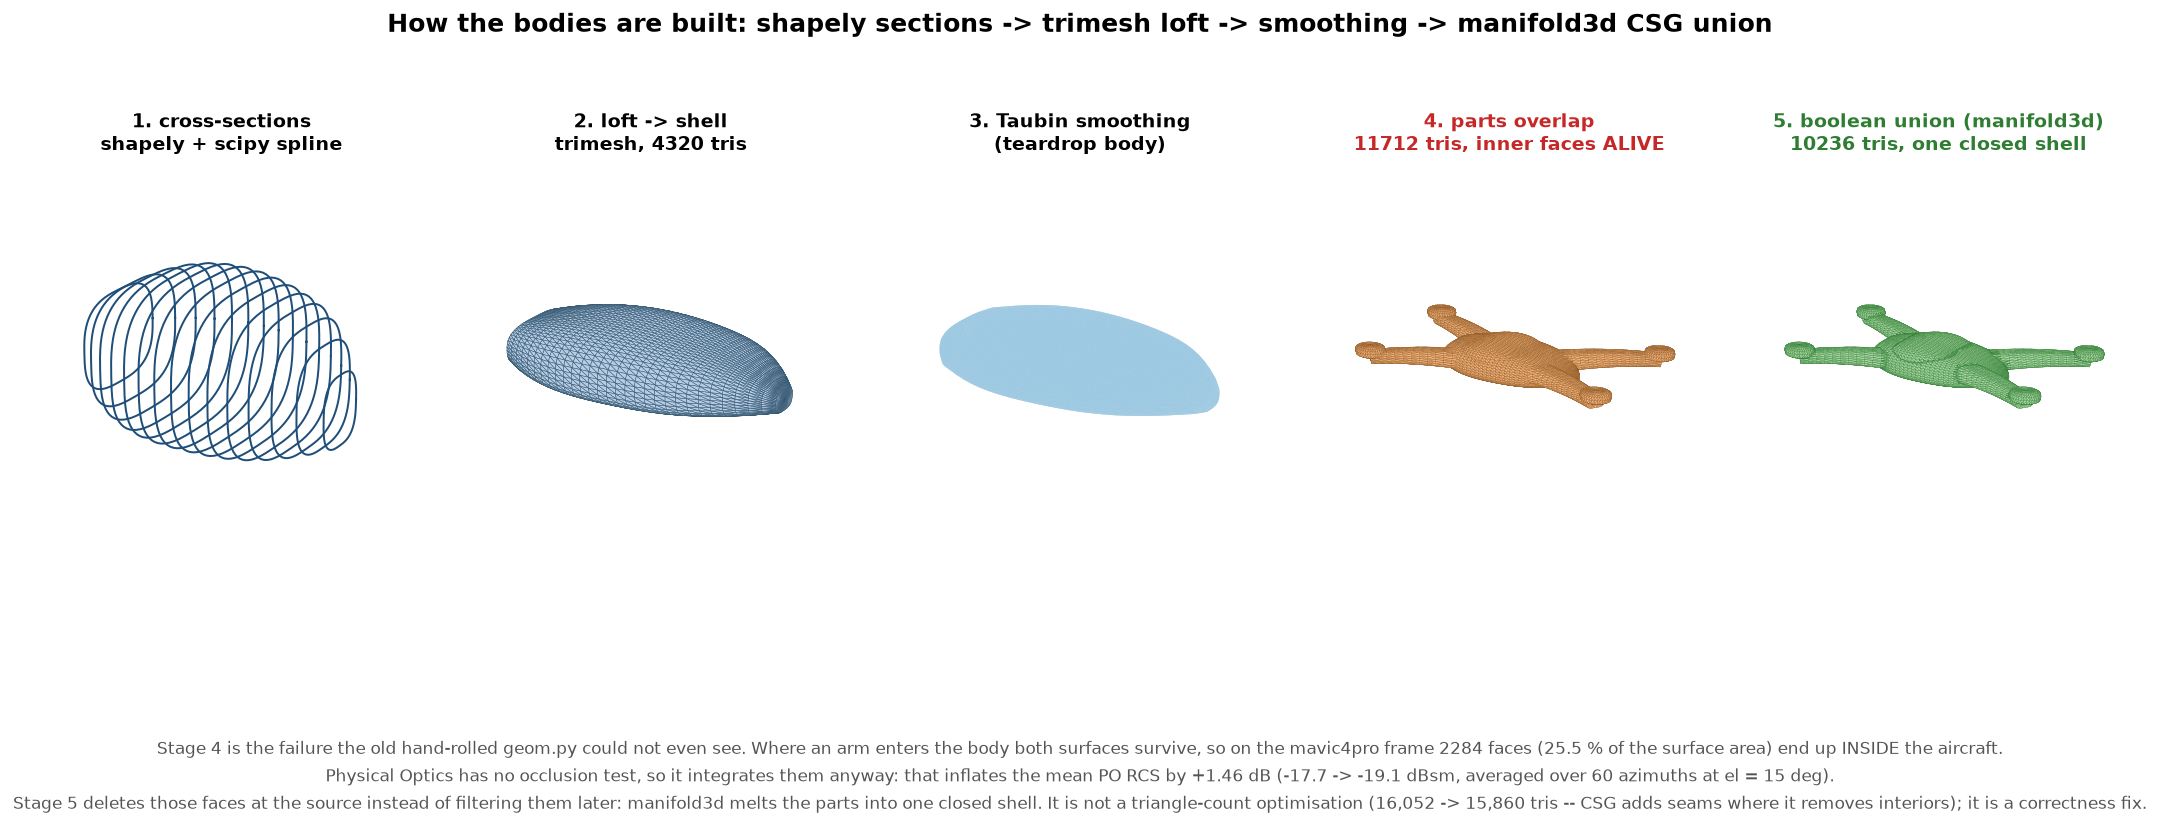
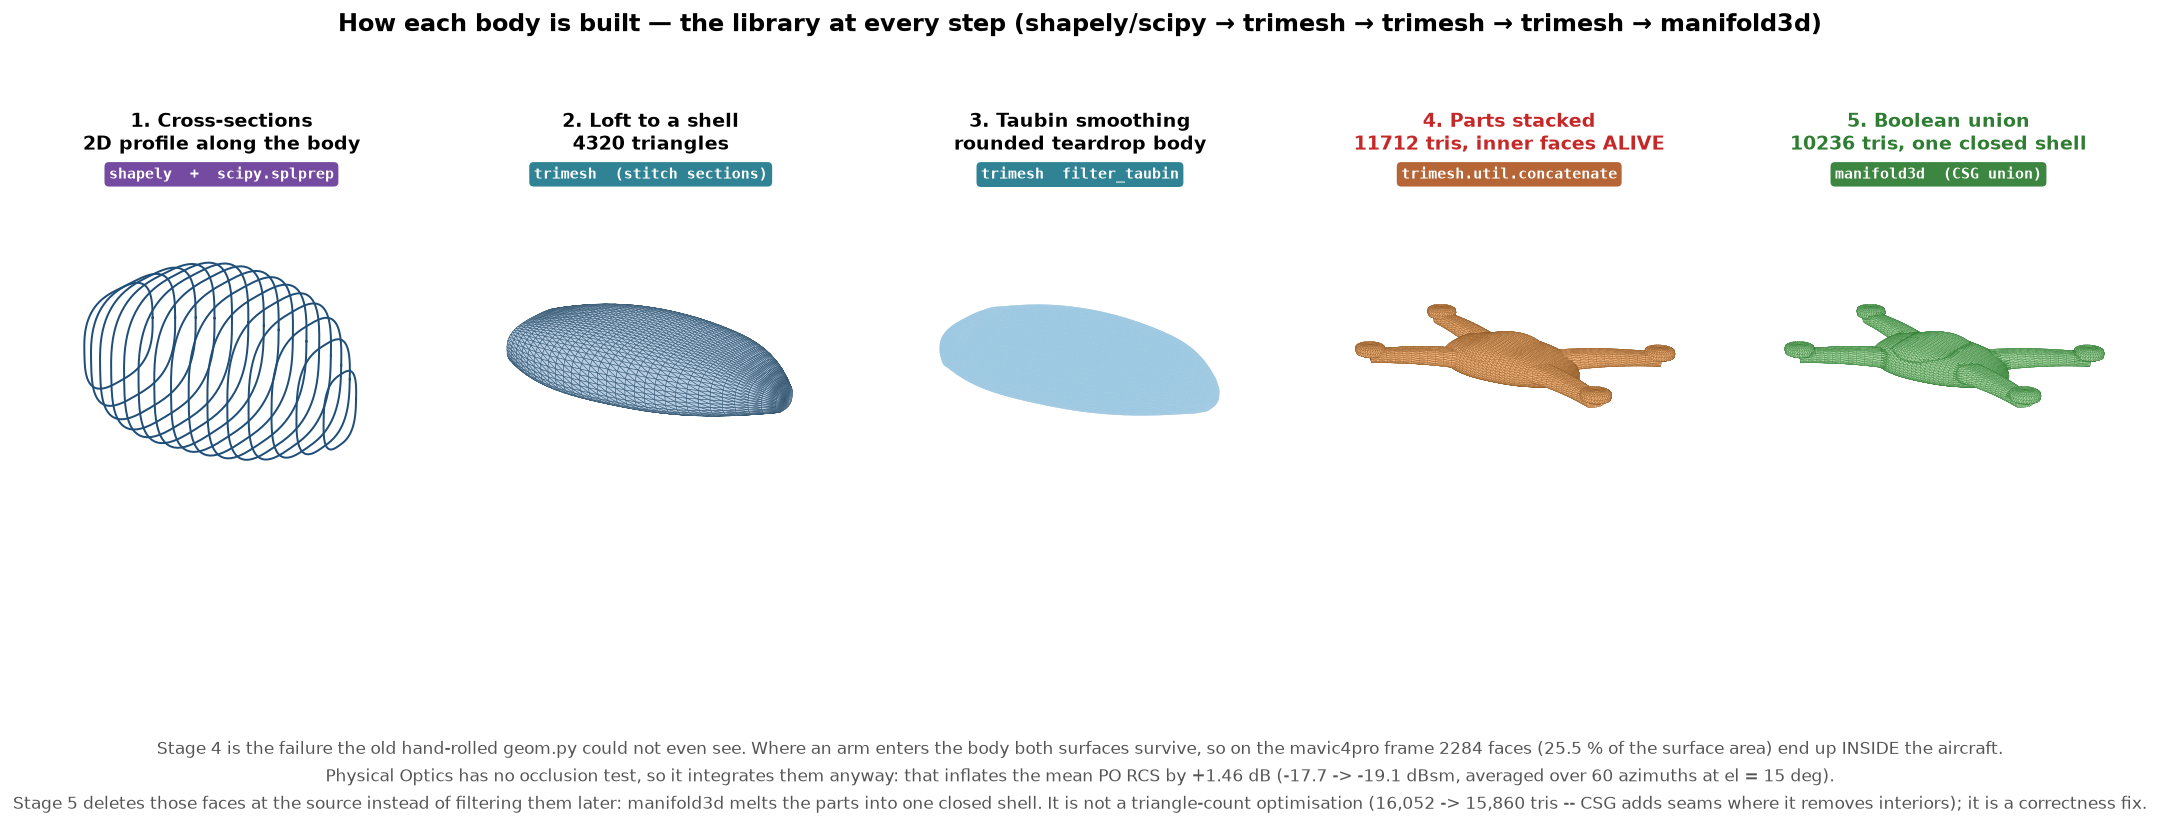
CAD 파이프라인 그림 — 단계별 라이브러리·함수 뱃지로 명확화
report02/mesh04 의 'How each body is built' 그림에 각 단계의 라이브러리·함수를
색상 뱃지로 표기: shapely+scipy.splprep → trimesh(stitch) → trimesh filter_taubin
→ trimesh.util.concatenate → manifold3d(CSG union). 제목도 작업 중심으로 정리해
어떤 도구가 무슨 작업을 했는지 한눈에 드러나게 함.

diff --git a/src/viz_report1.py b/src/viz_report1.py
@@ -402,18 +402,29 @@ def fig_cad_pipeline(mm: dict):
         ax_.set_xlim(c[0] - r, c[0] + r); ax_.set_ylim(c[1] - r, c[1] + r)
         ax_.set_zlim(c[2] - r * 0.75, c[2] + r * 0.75)
 
+    # 각 단계의 라이브러리·함수를 뚜렷한 뱃지로 — 무슨 도구가 무슨 일을 했는지 한눈에.
+    LIB_COL = {"geom": "#6a3d9a", "mesh": "#1f7a8c", "cat": "#b15928", "csg": "#2e7d32"}
+
+    def _libtag(a, txt, col):
+        a.text2D(0.5, 0.985, txt, transform=a.transAxes, ha="center", va="top",
+                 fontsize=8.2, fontfamily="monospace", color="white", fontweight="bold",
+                 bbox=dict(boxstyle="round,pad=0.3", fc=col, ec="none", alpha=0.93), zorder=20)
+
     a = _ax(1)
     for x, poly in secs[::2]:
         xy = np.asarray(poly.exterior.coords)
         a.plot(np.full(len(xy), x), xy[:, 0], xy[:, 1], color=CB, lw=1.1)
-    a.set_title("1. cross-sections\nshapely + scipy spline", fontsize=10.5, fontweight="bold")
+    a.set_title("1. Cross-sections\n2D profile along the body", fontsize=10.5, fontweight="bold")
+    _libtag(a, "shapely  +  scipy.splprep", LIB_COL["geom"])
 
     a = _ax(2); _mesh3d(a, raw, "#b6cde4", "#33556f", 0.25)
-    a.set_title(f"2. loft -> shell\ntrimesh, {len(raw.faces)} tris", fontsize=10.5,
+    a.set_title(f"2. Loft to a shell\n{len(raw.faces)} triangles", fontsize=10.5,
                 fontweight="bold")
+    _libtag(a, "trimesh  (stitch sections)", LIB_COL["mesh"])
 
     a = _ax(3); _mesh3d(a, sm, "#9ec9e2", None)
-    a.set_title("3. Taubin smoothing\n(teardrop body)", fontsize=10.5, fontweight="bold")
+    a.set_title("3. Taubin smoothing\nrounded teardrop body", fontsize=10.5, fontweight="bold")
+    _libtag(a, "trimesh  filter_taubin", LIB_COL["mesh"])
 
     parts = [sm, _canopy(L, W, H, x0=-0.06, frac=0.62)]
     r = spec.diagonal_mm / 2000.0
@@ -427,20 +438,23 @@ def fig_cad_pipeline(mm: dict):
         parts.append(bell)
     merged = trimesh.util.concatenate(parts)
     a = _ax(4); _mesh3d(a, merged, "#f0b27a", "#8a5522", 0.12)
-    a.set_title(f"4. parts overlap\n{len(merged.faces)} tris, inner faces ALIVE",
+    a.set_title(f"4. Parts stacked\n{len(merged.faces)} tris, inner faces ALIVE",
                 fontsize=10.5, fontweight="bold", color=CR)
+    _libtag(a, "trimesh.util.concatenate", LIB_COL["cat"])
 
     try:
         uni = trimesh.boolean.union(parts, engine="manifold")
     except Exception:
         uni = merged
     a = _ax(5); _mesh3d(a, uni, "#a8d5a2", "#2e7d32", 0.12)
-    a.set_title(f"5. boolean union (manifold3d)\n{len(uni.faces)} tris, one closed shell",
+    a.set_title(f"5. Boolean union\n{len(uni.faces)} tris, one closed shell",
                 fontsize=10.5, fontweight="bold", color=CG)
+    _libtag(a, "manifold3d  (CSG union)", LIB_COL["csg"])
 
     B = mm["boolean"]
-    fig.suptitle("How the bodies are built: shapely sections -> trimesh loft -> smoothing -> manifold3d CSG union",
-                 fontsize=14, fontweight="bold")
+    fig.suptitle("How each body is built — the library at every step "
+                 "(shapely/scipy → trimesh → trimesh → trimesh → manifold3d)",
+                 fontsize=13.5, fontweight="bold")
     _cap(fig, f"Stage 4 is the failure the old hand-rolled geom.py could not even see. Where an arm enters the body both surfaces survive, so on the {B['drone']} frame "
               f"{B['n_interior_faces']} faces ({B['area_interior_pct']:.1f} % of the surface area) end up INSIDE the aircraft.\n"
               f"Physical Optics has no occlusion test, so it integrates them anyway: that inflates the mean PO RCS by {B['po_bias_db']:+.2f} dB "
